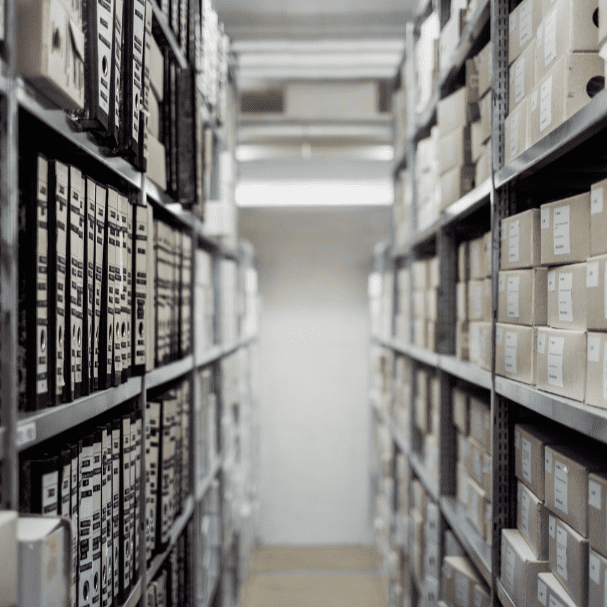
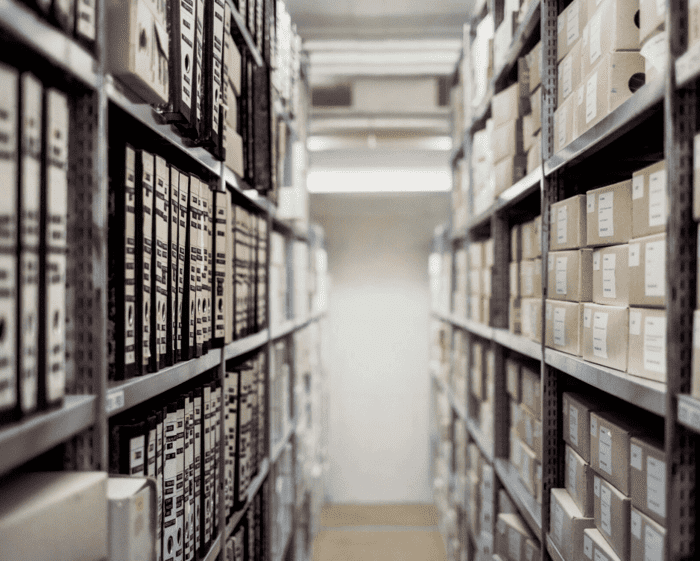
Fix mobile design

diff --git a/src/scripts/index.ts b/src/scripts/index.ts
@@ -3,52 +3,40 @@ import CreateElement from "../helpers/CreateElement"
 import WaitForElement from "../helpers/WaitForElement"
 
 new class Index {
+	nav!: HTMLElement
+	main!: HTMLElement
+
 	constructor(){
-		this.DocumentsImage()
-		this.NotificationHandler()
-		this.UploadHandler()
+		WaitForElement("nav").then(nav => {
+			this.nav = nav
+			this.MobileNavigation()
+		})
+
+		WaitForElement("main").then(main => {
+			this.main = main
+			this.DocumentsImage()
+			this.UploadHandler()
+			this.NotificationHandler()
+		})
 	}
 	async DocumentsImage(){
-		const { userAgentData } = navigator
+		const aside = await WaitForElement("aside", { element: this.main })
 
-		let inserted = false, mobile: boolean
-
-		const main = await WaitForElement("main")
-
-		function InsertImage(){
-			if(inserted) return
-
-			if(typeof mobile === "undefined"){
-				if(userAgentData){
-					mobile = userAgentData.mobile
-				}else{
-					const userAgent = navigator.userAgent || navigator.appVersion
-					mobile = !userAgent.includes("Windows") && /\bMobile\b/i.test(userAgent)
-				}
-			}
-
-			if(mobile || document.documentElement.clientWidth > 600){
-				const image = new Image
-				const aside = CreateElement("aside", { children: [image] })
-
-				image.loading = "lazy"
-				image.src = "/images/documents.png"
-				image.alt = "Ilustração de documentos"
-
-				main.appendChild(aside)
-
-				inserted = true
-			}
+		function SetAttribute(set: boolean){
+			aside.ariaHidden = set ? "true" : null
 		}
 
-		InsertImage()
+		SetAttribute(window.getComputedStyle(aside).display === "none")
 
-		window.addEventListener("resize", InsertImage)
+		new ResizeObserver(entries => {
+			const { contentRect } = entries.find(entry => entry.target === aside)!
+			SetAttribute(contentRect.width + contentRect.height === 0)
+		}).observe(aside)
 	}
 	async NotificationHandler(){
 		const container = await WaitForElement<HTMLDivElement>("#notifications")
-		const icon = await WaitForElement<HTMLSpanElement>(".icon", { element: container })
-		const content = await WaitForElement<HTMLDivElement>(".content", { element: container })
+		const icon = container.querySelector(".icon") as HTMLSpanElement
+		const content = container.querySelector(".content") as HTMLDivElement
 
 		icon.addEventListener("click", event => {
 			event.preventDefault()
@@ -56,9 +44,9 @@ new class Index {
 		})
 	}
 	async UploadHandler(){
-		const section = await WaitForElement("main article section:nth-of-type(2)")
-		const form: HTMLFormElement = document.forms.namedItem("upload") ?? await WaitForElement("form[name=upload]", { element: section })
-		const fileInput = await WaitForElement<HTMLInputElement>("input[type=file]", { element: form })
+		const section = await WaitForElement<HTMLElement>("article section:nth-of-type(2)", { element: this.main })
+		const form: HTMLFormElement = document.forms.namedItem("upload") || await WaitForElement("form[name=upload]", { element: section })
+		const fileInput = form.querySelector("input[type=file]") as HTMLInputElement
 
 		const documentTypes = [
 			"Ata",
@@ -196,6 +184,31 @@ new class Index {
 			else menu = CreateInfoMenu(info)
 
 			section.appendChild(menu)
+		})
+	}
+	async MobileNavigation(){
+		const menu = await WaitForElement(".icons.mobile")
+		const openIcon = menu.querySelector(":scope > .icon") as HTMLSpanElement
+		const content = menu.querySelector(".content") as HTMLDivElement
+
+		function CloseHandler(event: MouseEvent){
+			// event.preventDefault()
+			content.classList.add("hidden")
+			window.removeEventListener("click", CloseHandler)
+		}
+
+		menu.addEventListener("click", function(event){
+			event.stopImmediatePropagation()
+
+			if(event.target !== openIcon) return
+
+			if(content.classList.contains("hidden")){
+				content.classList.remove("hidden")
+				window.addEventListener("click", CloseHandler)
+			}else{
+				content.classList.add("hidden")
+				window.removeEventListener("click", CloseHandler)
+			}
 		})
 	}
 }

diff --git a/src/styles/index.scss b/src/styles/index.scss
@@ -8,7 +8,7 @@ main{
 		flex-direction: column;
 		justify-content: center;
 		align-items: center;
-		flex: 2;
+		flex: 1;
 
 		$width: 400pt;
 
@@ -20,12 +20,15 @@ main{
 			max-width: $width;
 			word-break: normal;
 
-			@media screen and (max-width: 600px){
+			@media screen and (min-width: $mobileSize) and (max-width: $mediumSize){
+				min-height: 300px;
+			}
+
+			@media screen and (max-width: $mediumSize){
 				display: flex;
 				width: 100%;
 				max-width: none;
-				min-height: 300px;
-				font-size: 15vw;
+				font-size: 11vw;
 				padding: 0 8pt;
 				align-items: center;
 			}
@@ -93,7 +96,7 @@ main{
 					display: block;
 					background-color: $secondaryColor;
 					padding: 4pt 12pt;
-					margin: 4pt auto 0;
+					margin: 8pt auto 0;
 					border-radius: 4pt;
 				}
 
@@ -104,7 +107,7 @@ main{
 				}
 			}
 
-			@media screen and (max-width: 600px){
+			@media screen and (max-width: $mobileSize){
 				display: flex;
 				align-items: center;
 				flex-direction: column;
@@ -114,7 +117,7 @@ main{
 
 				form label{
 					width: $width;
-					font-size: 8vw;
+					font-size: 5vw;
 					height: auto;
 					padding: 8pt 24pt;
 				}
@@ -158,15 +161,13 @@ main{
 		margin: auto 0;
 
 		img{
-			$size: 400px;
-
-			width: $size;
-			height: $size;
+			width: 600px;
 			border-radius: 20px;
+			aspect-ratio: 5 / 4;
+		}
 
-			@media screen and (max-width: 600px){
-				display: none;
-			}
+		@media screen and (max-width: $mediumSize){
+			display: none;
 		}
 	}
 }

diff --git a/src/styles/import/nav.scss b/src/styles/import/nav.scss
@@ -54,9 +54,54 @@ nav{
 		justify-content: space-between;
 		gap: 8pt;
 
-		@media screen and (max-width: 600px){
+		@media screen and (max-width: $mobileSize){
 			display: none;
-			flex-direction: column;
+		}
+
+		&.mobile{
+			display: none;
+			position: relative;
+
+			@media screen and (max-width: $mobileSize){
+				display: block;
+			}
+
+			> .icon{
+				cursor: pointer;
+			}
+
+			.content{
+				display: flex;
+				flex-direction: column;
+				gap: 8pt;
+
+				background-color: white;
+				color: black;
+				position: absolute;
+				top: 100%;
+				right: 4pt;
+				padding: 8pt;
+				border-radius: 12pt;
+				width: 50vw;
+
+				&.hidden{
+					display: none;
+				}
+
+				a{
+					display: flex;
+					flex-direction: row;
+					align-items: center;
+					justify-content: flex-start;
+					text-decoration: none;
+					gap: 8pt;
+					cursor: pointer;
+
+					.icon{
+						font-size: 22pt;
+					}
+				}
+			}
 		}
 
 		a{
@@ -81,10 +126,6 @@ nav{
 			position: relative;
 
 			.content{
-				&.hidden{
-					display: none;
-				}
-
 				background-color: white;
 				color: black;
 				position: absolute;
@@ -92,6 +133,10 @@ nav{
 				right: 0;
 				width: $menuWidth;
 				border-radius: 4pt;
+
+				&.hidden{
+					display: none;
+				}
 
 				p.title{
 					font-size: larger;
@@ -102,7 +147,7 @@ nav{
 				hr{
 					margin: 4pt auto;
 					border: 1px solid $primaryColor;
-					width: calc(100% - 4pt * 2);
+					width: calc(100% - 8pt);
 				}
 			}
 		}

diff --git a/src/styles/import/main.scss b/src/styles/import/main.scss
@@ -5,7 +5,7 @@ main{
 	align-items: flex-start;
 	margin-top: 40pt;
 
-	@media screen and (max-width: 600px){
+	@media screen and (max-width: $mobileSize){
 		flex-direction: column;
 	}
 }

diff --git a/src/styles/import/global.scss b/src/styles/import/global.scss
@@ -5,6 +5,9 @@ $secondaryColor: #121d46;
 $terciaryColor: #ec518f;
 $fontColor: white;
 
+$mobileSize: 600px;
+$mediumSize: 1280px;
+
 :root {
 	color-scheme: dark;
 }
